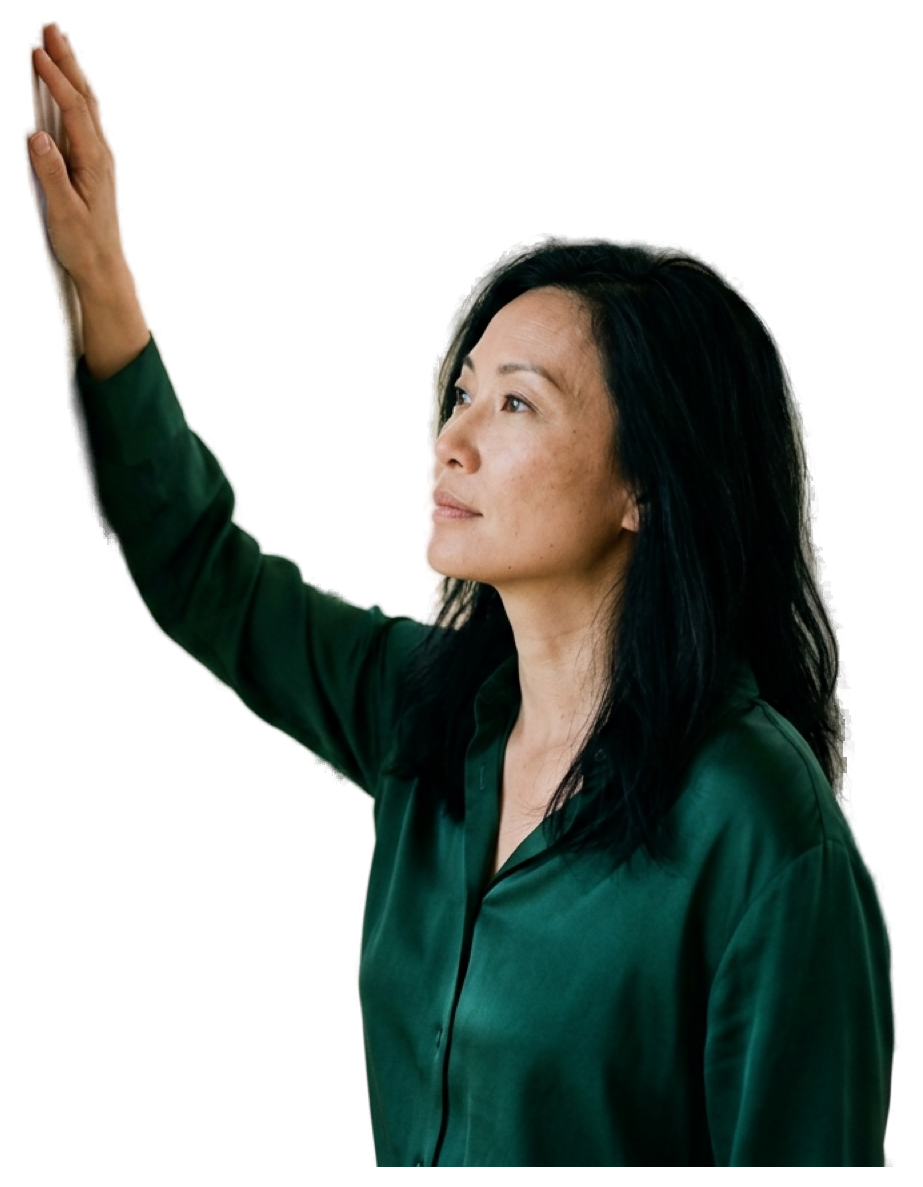
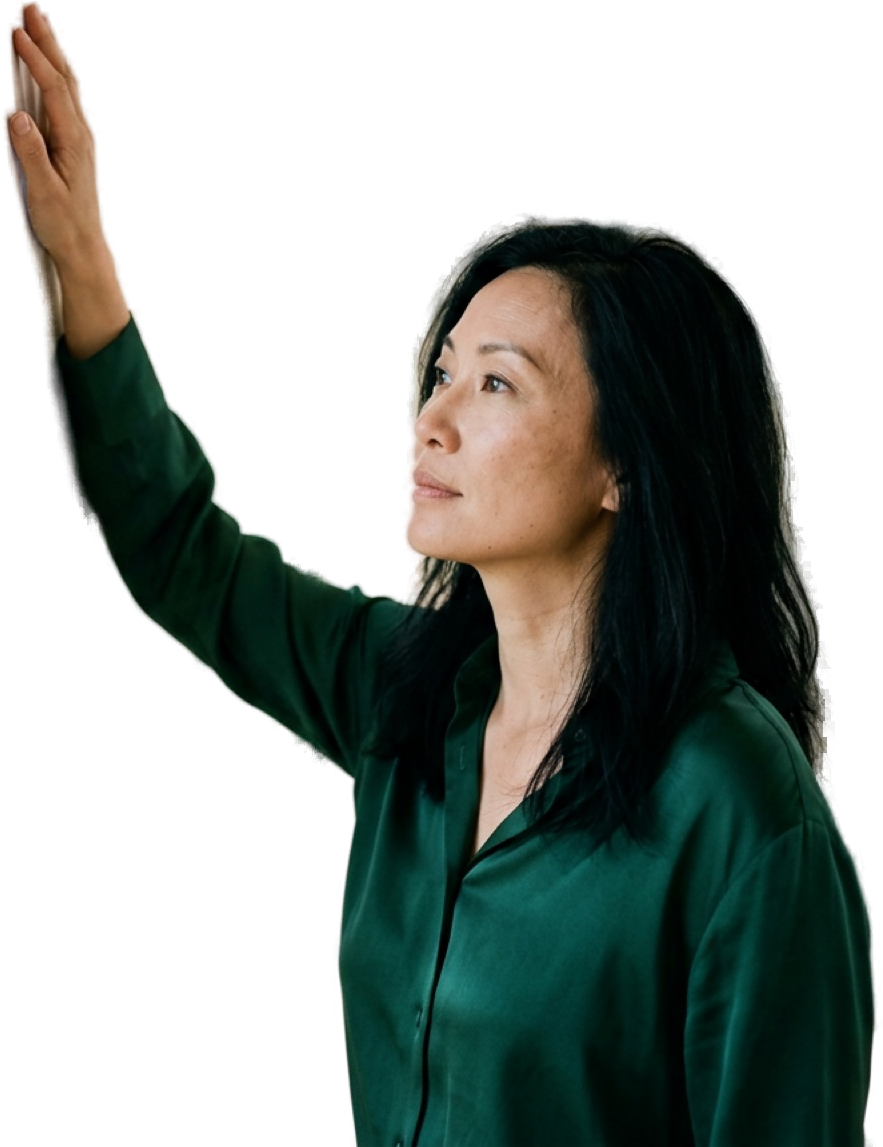
polish: newsletter submit wired for all forms, high-res Sara from source video, spacing fixes
- Newsletter handler now wires EVERY .news form (footer + 17 blog blocks), not
  just the footer; uses the email input by type, creates the status line if
  missing. Removed dead onsubmit=return false from 17 forms.
- Sara testimonial: replaced the 33KB low-res webcam still with a high-res crop
  from her source video cover (0302-Cover.jpg, 1972x1080) — 698px.
- Trimmed 20px transparent border off the 4 cutout PNGs so the figure sits flush
  to the band (removes the gap below it on first-visit/partner/SEO pages).
- .appt band: more top padding (eyebrow was cramped under the curved top).
- booking cta-strip: pricing line on one line (wraps only under 680px).

diff --git a/js/site-v6.js b/js/site-v6.js
@@ -153,28 +153,39 @@
   }
 
   function initNewsletter() {
-    var form = document.getElementById('newsform');
-    if (!form) return;
-    var msg = form.parentElement.querySelector('.news-msg');
-    form.addEventListener('submit', function (e) {
-      e.preventDefault();
-      var email = (form.email.value || '').trim();
-      if (!email) return;
-      var btn = form.querySelector('button');
-      btn.disabled = true;
-      fetch('/api/newsletter-signup', {
-        method: 'POST',
-        headers: { 'Content-Type': 'application/json' },
-        body: JSON.stringify({ email: email })
-      }).then(function (res) {
-        if (!res.ok) throw new Error('bad status ' + res.status);
-        return res.json();
-      }).then(function () {
-        form.hidden = true;
-        msg.textContent = 'You’re on the list.';
-      }).catch(function () {
-        btn.disabled = false;
-        msg.textContent = 'That didn’t go through. Try again, or write to hello@amarimethod.com.';
+    // Wire EVERY newsletter form (footer + the per-article "Like what you're
+    // reading?" blocks), not just the footer one.
+    document.querySelectorAll('form.news').forEach(function (form) {
+      var input = form.querySelector('input[type=email]');
+      if (!input) return;
+      form.removeAttribute('onsubmit'); // some markup had onsubmit="return false" (dead)
+      var msg = form.parentElement.querySelector('.news-msg');
+      if (!msg) {
+        msg = document.createElement('p');
+        msg.className = 'news-msg';
+        msg.setAttribute('aria-live', 'polite');
+        form.parentElement.appendChild(msg);
+      }
+      form.addEventListener('submit', function (e) {
+        e.preventDefault();
+        var email = (input.value || '').trim();
+        if (!email) return;
+        var btn = form.querySelector('button');
+        if (btn) btn.disabled = true;
+        fetch('/api/newsletter-signup', {
+          method: 'POST',
+          headers: { 'Content-Type': 'application/json' },
+          body: JSON.stringify({ email: email })
+        }).then(function (res) {
+          if (!res.ok) throw new Error('bad status ' + res.status);
+          return res.json();
+        }).then(function () {
+          form.hidden = true;
+          msg.textContent = 'You’re on the list.';
+        }).catch(function () {
+          if (btn) btn.disabled = false;
+          msg.textContent = 'That didn’t go through. Try again, or write to hello@amarimethod.com.';
+        });
       });
     });
   }

diff --git a/css/site-v6.css b/css/site-v6.css
@@ -117,7 +117,7 @@ header.site.on-dark .btn.hdr-book:hover{background:#fff}
 .divider-strip{width:100%;height:clamp(150px,20vw,240px);background-size:cover;background-position:center}
 
 /* ---------- Appointment CTA (curved) ---------- */
-.appt{position:relative;padding:clamp(90px,12vw,150px) 0;text-align:center;background:var(--cream);overflow:hidden}
+.appt{position:relative;padding:clamp(140px,15vw,210px) 0 clamp(90px,12vw,150px);text-align:center;background:var(--cream);overflow:hidden}
 .appt::before{content:"";position:absolute;inset:0;background:var(--cream-2);clip-path:ellipse(120% 78% at 50% 100%);z-index:0}
 .appt .wrap{position:relative;z-index:1}
 .appt h2{font-size:clamp(2.2rem,3.9vw,3.3rem);font-weight:500}

diff --git a/booking.html b/booking.html
@@ -77,8 +77,9 @@
 
   /* Thin CTA strip (Yinova's peach ribbon) */
   .cta-strip{background:var(--peach);padding:26px 0;text-align:center}
-  .cta-strip p{margin:0;color:var(--ink);font-family:var(--sans);font-size:15px;font-weight:500}
+  .cta-strip p{margin:0;color:var(--ink);font-family:var(--sans);font-size:15px;font-weight:500;white-space:nowrap}
   .cta-strip a{border-bottom:1.5px solid var(--ink);padding-bottom:2px;font-weight:600}
+  @media(max-width:680px){.cta-strip p{white-space:normal}}
 
   /* Feature split: Living Practice video program */
   .feature{padding:clamp(70px,9vw,110px) 0}

diff --git a/amari-method-vs-physical-therapy.html b/amari-method-vs-physical-therapy.html
@@ -288,7 +288,7 @@
         <div class="art-signup">
           <h4>Like what you're reading?</h4>
           <p>Occasional notes on movement, pain, and the practice, straight to your inbox.</p>
-          <form class="news" onsubmit="return false">
+          <form class="news">
             <input type="email" placeholder="Email address" aria-label="Email address">
             <button type="submit">Submit</button>
           </form>

diff --git a/blog-active-bridge-strength.html b/blog-active-bridge-strength.html
@@ -253,7 +253,7 @@
         <div class="art-signup">
           <h4>Like what you're reading?</h4>
           <p>Occasional notes on movement, pain, and the practice, straight to your inbox.</p>
-          <form class="news" onsubmit="return false">
+          <form class="news">
             <input type="email" placeholder="Email address" aria-label="Email address">
             <button type="submit">Submit</button>
           </form>

diff --git a/blog-back-pain-from-sitting.html b/blog-back-pain-from-sitting.html
@@ -277,7 +277,7 @@
         <div class="art-signup">
           <h4>Like what you're reading?</h4>
           <p>Occasional notes on movement, pain, and the practice, straight to your inbox.</p>
-          <form class="news" onsubmit="return false">
+          <form class="news">
             <input type="email" placeholder="Email address" aria-label="Email address">
             <button type="submit">Submit</button>
           </form>

diff --git a/blog-elbow-reset-tennis-elbow.html b/blog-elbow-reset-tennis-elbow.html
@@ -256,7 +256,7 @@
         <div class="art-signup">
           <h4>Like what you're reading?</h4>
           <p>Occasional notes on movement, pain, and the practice, straight to your inbox.</p>
-          <form class="news" onsubmit="return false">
+          <form class="news">
             <input type="email" placeholder="Email address" aria-label="Email address">
             <button type="submit">Submit</button>
           </form>

diff --git a/blog-hand-balancer-carpal-tunnel.html b/blog-hand-balancer-carpal-tunnel.html
@@ -259,7 +259,7 @@
         <div class="art-signup">
           <h4>Like what you're reading?</h4>
           <p>Occasional notes on movement, pain, and the practice, straight to your inbox.</p>
-          <form class="news" onsubmit="return false">
+          <form class="news">
             <input type="email" placeholder="Email address" aria-label="Email address">
             <button type="submit">Submit</button>
           </form>

diff --git a/blog-jaw-align-tmj-relief.html b/blog-jaw-align-tmj-relief.html
@@ -247,7 +247,7 @@
         <div class="art-signup">
           <h4>Like what you're reading?</h4>
           <p>Occasional notes on movement, pain, and the practice, straight to your inbox.</p>
-          <form class="news" onsubmit="return false">
+          <form class="news">
             <input type="email" placeholder="Email address" aria-label="Email address">
             <button type="submit">Submit</button>
           </form>

diff --git a/blog-passive-bridge-mobility.html b/blog-passive-bridge-mobility.html
@@ -252,7 +252,7 @@
         <div class="art-signup">
           <h4>Like what you're reading?</h4>
           <p>Occasional notes on movement, pain, and the practice, straight to your inbox.</p>
-          <form class="news" onsubmit="return false">
+          <form class="news">
             <input type="email" placeholder="Email address" aria-label="Email address">
             <button type="submit">Submit</button>
           </form>

diff --git a/blog-power-posture-shoulder-blades.html b/blog-power-posture-shoulder-blades.html
@@ -264,7 +264,7 @@
         <div class="art-signup">
           <h4>Like what you're reading?</h4>
           <p>Occasional notes on movement, pain, and the practice, straight to your inbox.</p>
-          <form class="news" onsubmit="return false">
+          <form class="news">
             <input type="email" placeholder="Email address" aria-label="Email address">
             <button type="submit">Submit</button>
           </form>

diff --git a/blog-putting-it-all-together.html b/blog-putting-it-all-together.html
@@ -243,7 +243,7 @@
         <div class="art-signup">
           <h4>Like what you're reading?</h4>
           <p>Occasional notes on movement, pain, and the practice, straight to your inbox.</p>
-          <form class="news" onsubmit="return false">
+          <form class="news">
             <input type="email" placeholder="Email address" aria-label="Email address">
             <button type="submit">Submit</button>
           </form>
